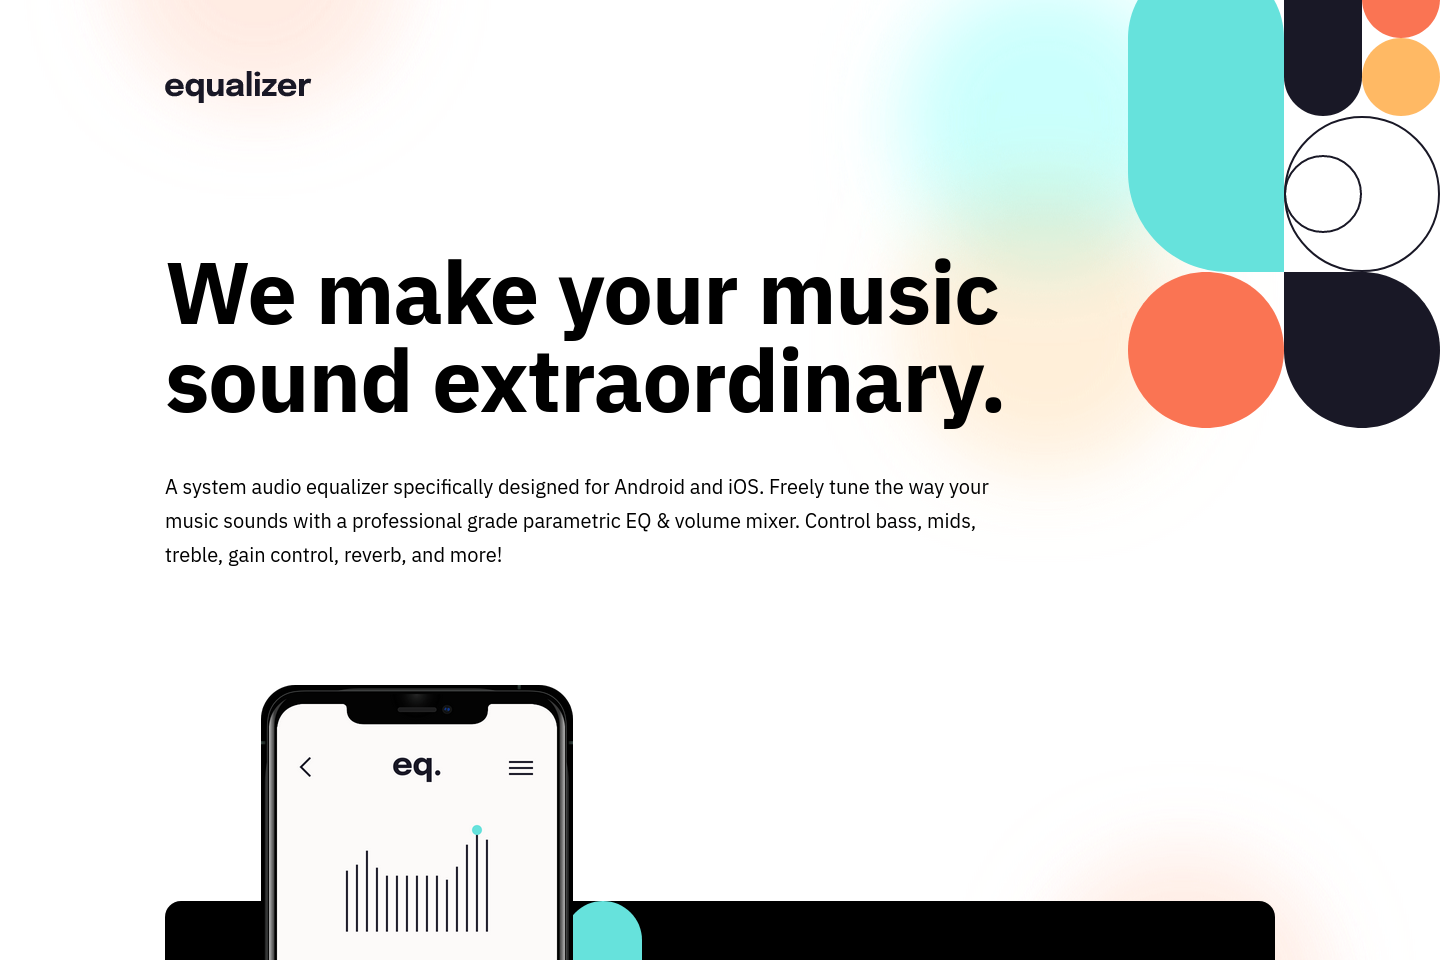
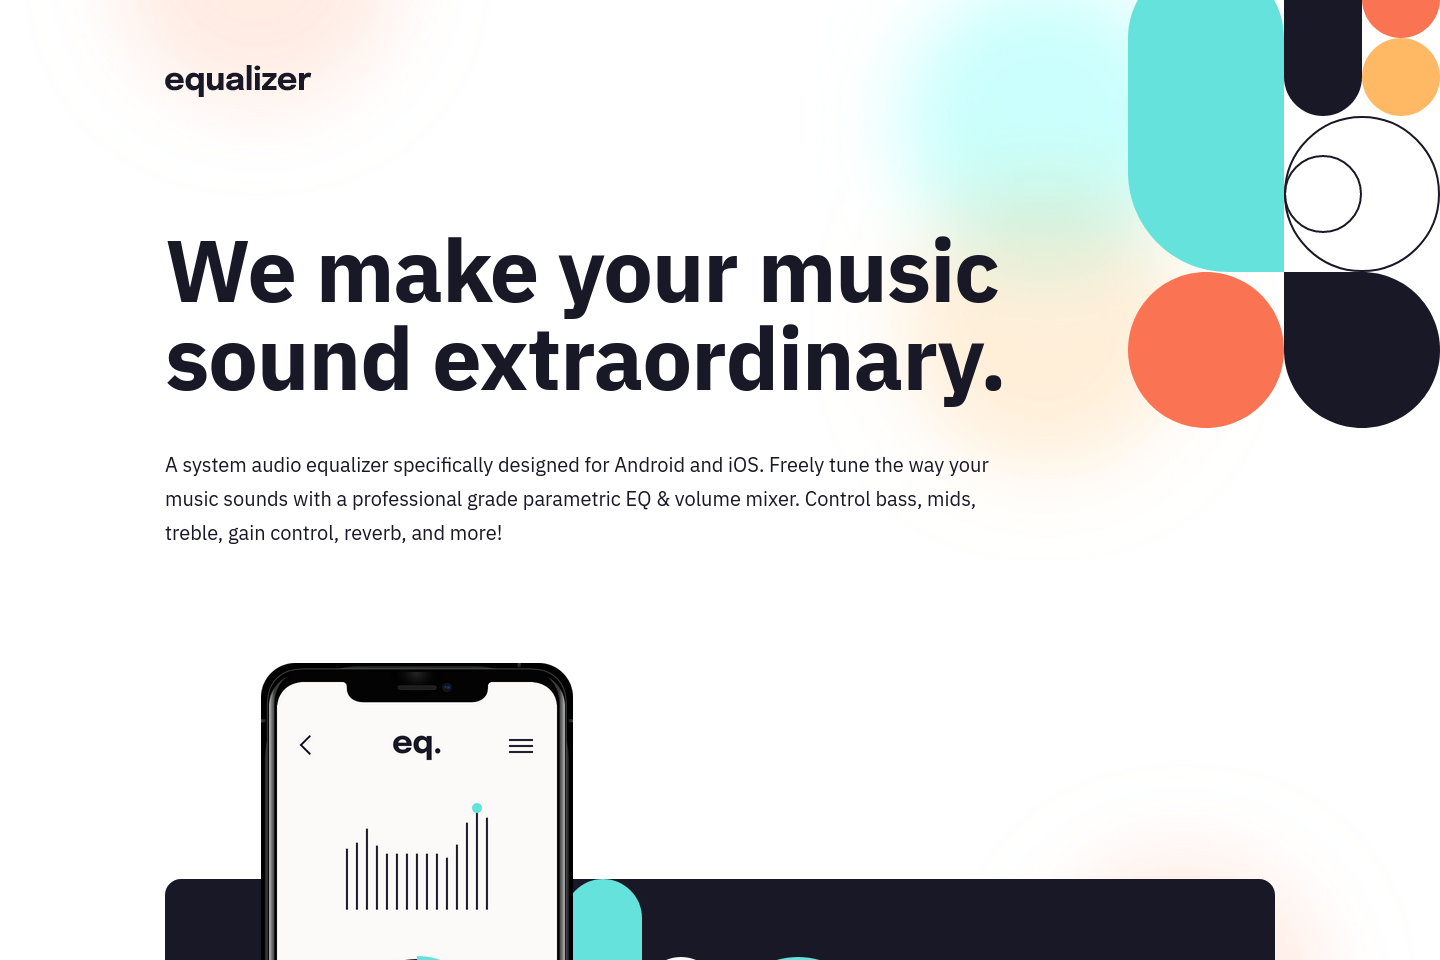
Update

diff --git a/style.css b/style.css
@@ -51,7 +51,7 @@
 
   body{
     font-family: 'IBM Plex Sans', sans-serif;
-    padding-top: 4.375rem;
+    padding-top: 4rem;
     background-image: url(assets/bg-main-desktop.png);
     background-position: center;
     background-repeat: no-repeat;
@@ -82,7 +82,7 @@
   }
 
   h1{
-    margin-top: 9rem;
+    margin-top: 8rem;
     font-size: 5.5rem;
     line-height: 5.5rem;
     font-weight: bold;
